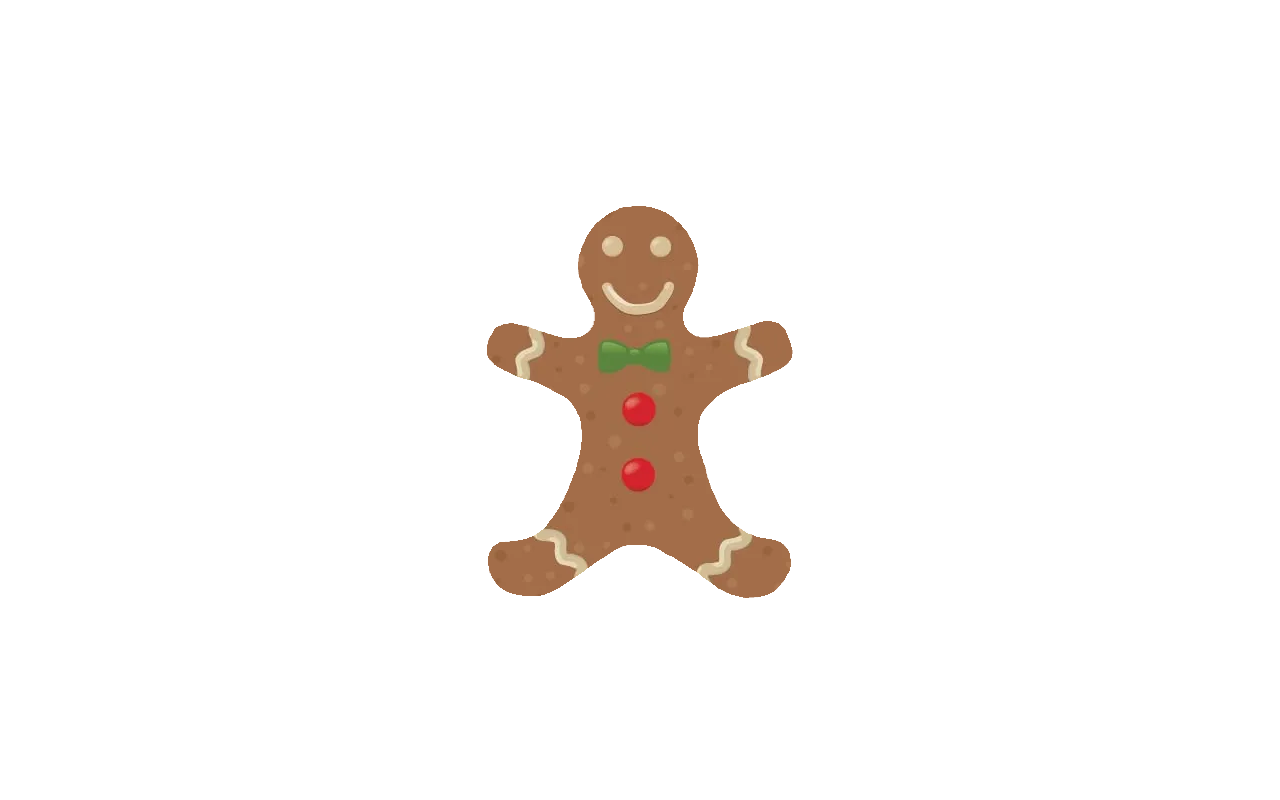
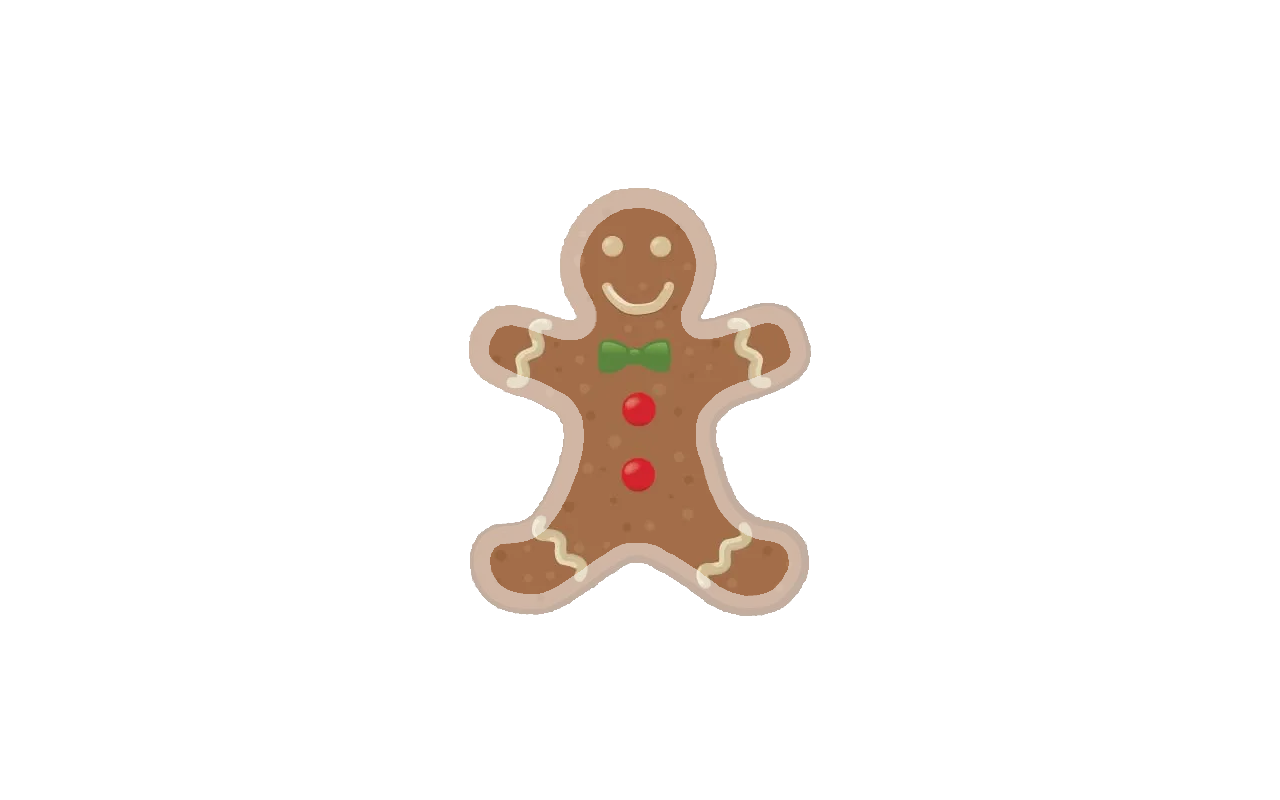
Better blending, better demo

Changed region(s): [[0.3438, 0.2188, 0.6562, 0.7812]]

diff --git a/src/pwarp/demo/demo_with_transparency.py b/src/pwarp/demo/demo_with_transparency.py
@@ -64,6 +64,9 @@ class DemoWithTransparency(object):
             if not op.isfile(image):
                 raise FileNotFoundError(f"No image file {image}")
             self.img = cv2.imread(image, cv2.IMREAD_UNCHANGED)
+            mask = self.img[:,:,3].reshape(self.img.shape[0], self.img.shape[1], 1) / 255.0
+            self.img[:,:,:2] = np.array(self.img[:,:,:2] * mask, dtype=np.uint8)
+            # convert the raw png to premultiplied alpha
             self.transform_image = True
         self._img = self.img.copy()
         self._transformed_background = self.img.copy()
